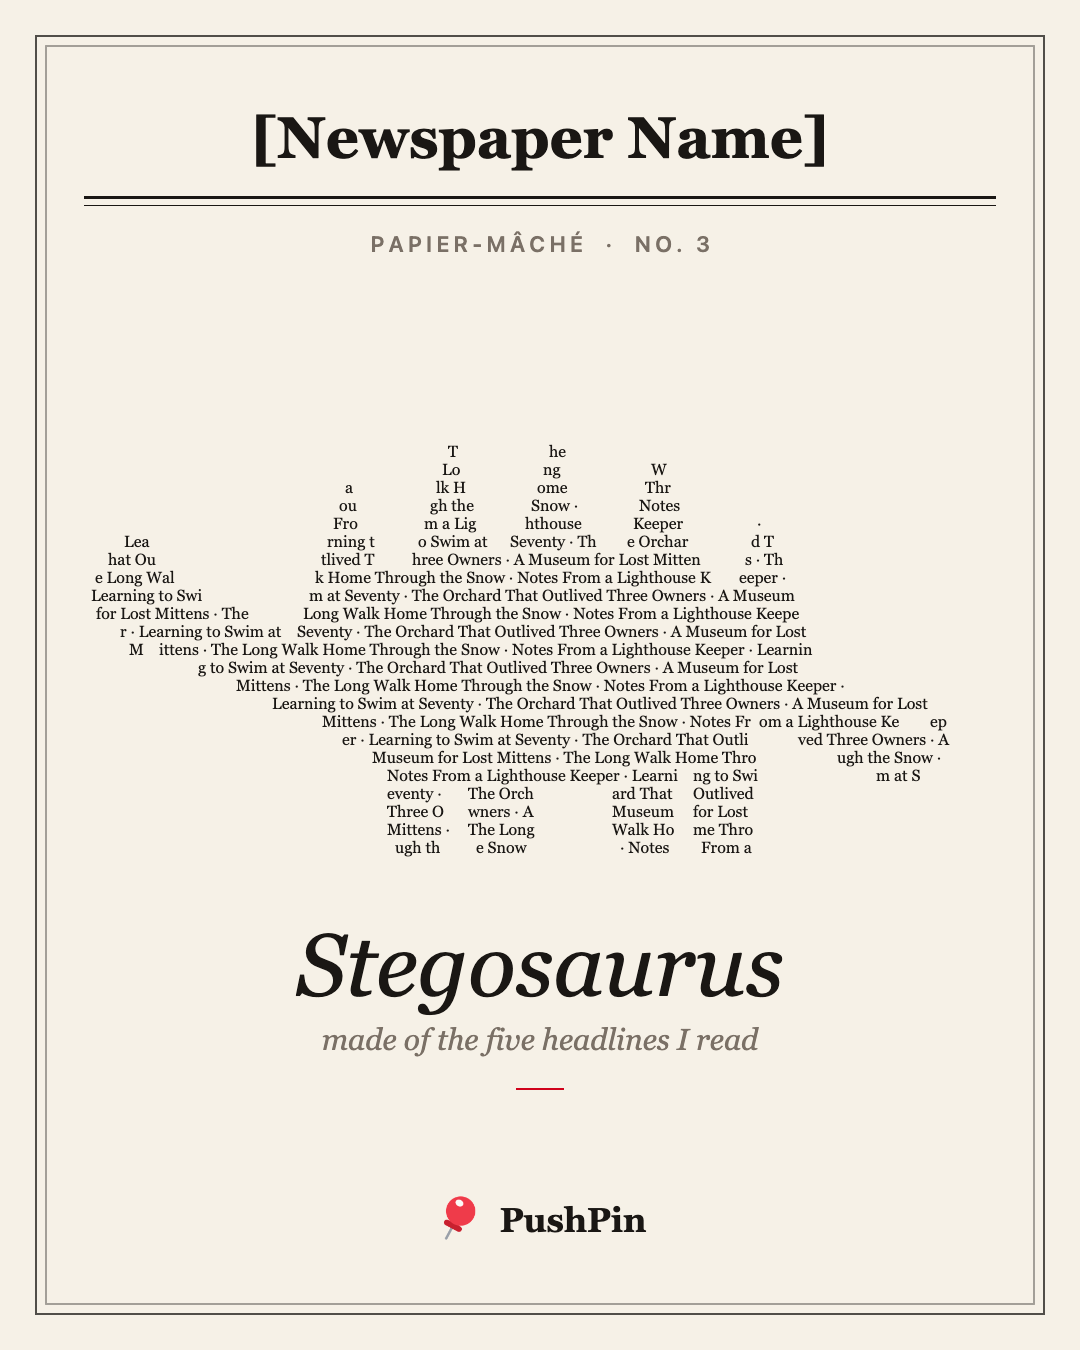
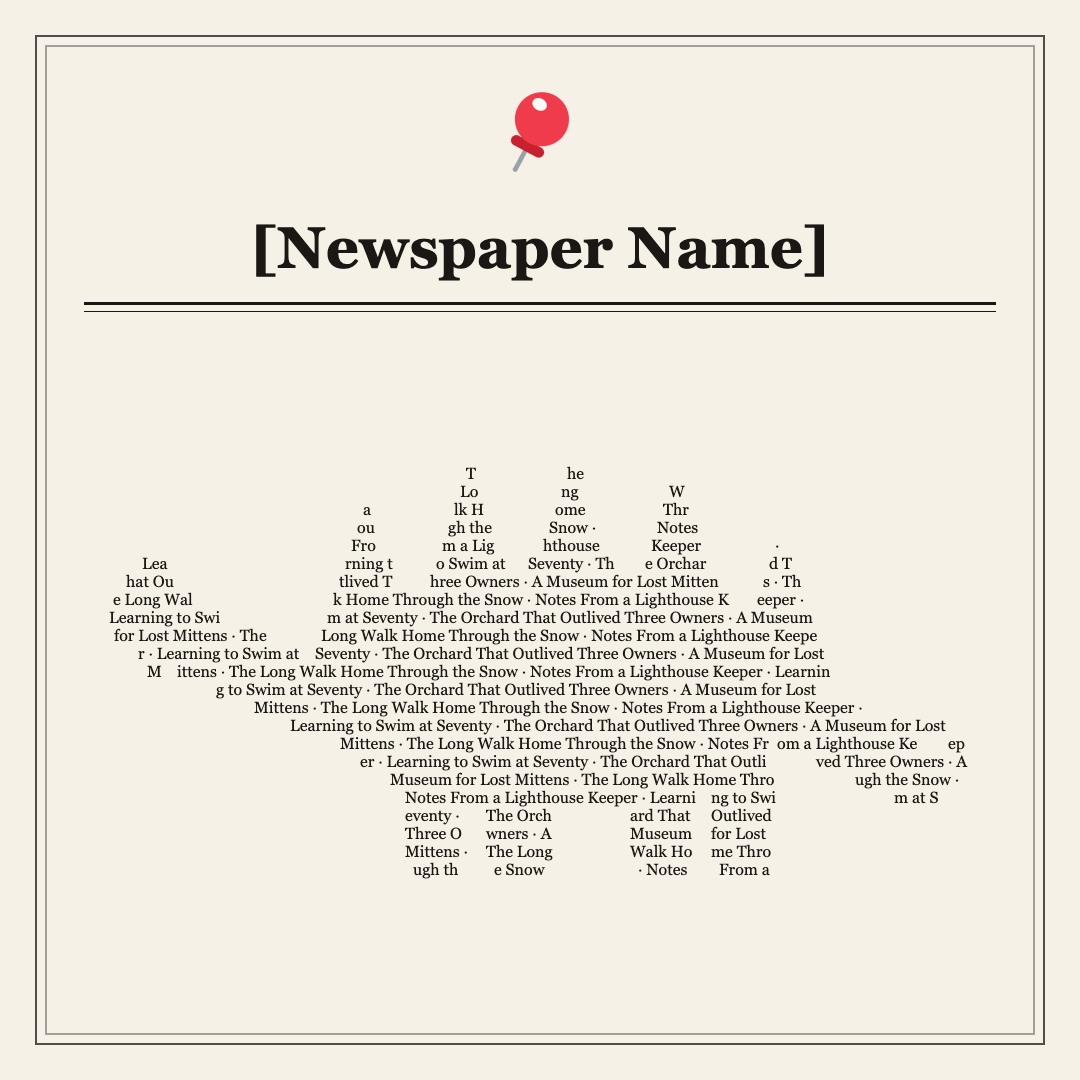
Share card: just the PushPin pin on top, the masthead and the dinosaur; no name, label or caption; square 1080x1080

diff --git a/src/pushpin/cards.py b/src/pushpin/cards.py
@@ -87,7 +87,7 @@ box-shadow:0 1px 2px rgba(0,0,0,.3);transition:transform .25s ease}
 -webkit-tap-highlight-color:transparent;transition:transform .2s ease}.papier .dino:active{transform:scale(.98)}
 .sharecard{border:0;padding:44px 16px 16px;border-radius:18px;background:var(--bg);color:var(--fg);width:min(92vw,420px);
 box-sizing:border-box;box-shadow:0 24px 80px rgba(0,0,0,.35)}.sharecard::backdrop{background:rgba(0,0,0,.55)}
-.sharecard img{display:block;width:100%;aspect-ratio:4/5;border-radius:6px;background:#f6f1e7;box-shadow:0 2px 10px rgba(0,0,0,.12)}
+.sharecard img{display:block;width:100%;aspect-ratio:1;border-radius:6px;background:#f6f1e7;box-shadow:0 2px 10px rgba(0,0,0,.12)}
 .sharecard .x{position:absolute;top:6px;right:8px;font:28px/1 -apple-system,system-ui,sans-serif;border:0;background:none;color:var(--muted);padding:4px 8px;cursor:pointer}
 .sharecard .row{margin-top:14px}.sharecard .go{background:var(--fg);color:var(--bg)}
 .sharecard .save{flex:1;text-align:center;font-weight:600;padding:12px;border-radius:10px;background:var(--btn);color:var(--fg);text-decoration:none}
@@ -610,50 +610,34 @@ function draw(canvas, words, built, flip, animate, kind) {
   requestAnimationFrame(frame);
 }
 // ---- share card ----
-// Tapping a dinosaur opens its card: a 1080 x 1350 image (4:5, what feeds crop to) on paper, with
-// the newspaper's masthead, the dinosaur made of its headlines, its name and the PushPin mark.
-const PAPER = '#f6f1e7', INK = '#1a1714', SOFT = '#7a7066', PENCIL = '#d8cfc0', RED = '#d0021b';
-const SERIF = 'Georgia, "Times New Roman", serif', SANS = '-apple-system, system-ui, "Helvetica Neue", sans-serif';
+// Tapping a dinosaur opens its card: a 1080 x 1080 square image on paper, with
+// the PushPin mark on top, the newspaper's masthead and the dinosaur made of its headlines.
+const PAPER = '#f6f1e7', INK = '#1a1714', PENCIL = '#d8cfc0', SERIF = 'Georgia, "Times New Roman", serif';
 const paper = data.dataset.paper || '';
 let logo = null;
 const pin = () => logo ??= new Promise(ok => {
   const im = new Image(); im.onload = () => ok(im); im.onerror = () => ok(null); im.src = '/icon.png';
 });
-function spaced(c, text, x, y, track) {  // centered small caps with letter spacing
-  const chars = [...text], wd = chars.reduce((s, ch) => s + c.measureText(ch).width, 0) + track * (chars.length - 1);
-  let cx = x - wd / 2;
-  c.textAlign = 'left';
-  for (const ch of chars) { c.fillText(ch, cx, y); cx += c.measureText(ch).width + track; }
-  c.textAlign = 'center';
-}
-async function card(k, words, built, kind) {
-  const W = 1080, H = 1350, M = 84, cv = document.createElement('canvas');
+async function card(words, built, kind) {
+  const W = 1080, H = 1080, M = 84, cv = document.createElement('canvas');
   cv.width = W; cv.height = H;
   const c = cv.getContext('2d');
   c.fillStyle = PAPER; c.fillRect(0, 0, W, H);
   c.strokeStyle = INK; c.lineWidth = 1.5; c.strokeRect(36, 36, W - 72, H - 72);   // a thin frame
   c.lineWidth = 0.75; c.strokeRect(46, 46, W - 92, H - 92);
+  const im = await pin(), size = 96;                                                 // the PushPin mark
+  if (im) c.drawImage(im, (W - size) / 2, 84, size, size);
   c.fillStyle = INK; c.textAlign = 'center'; c.textBaseline = 'alphabetic';
-  c.font = '700 58px ' + SERIF; c.fillText(paper, W / 2, 158);                      // the masthead
-  c.fillRect(M, 196, W - 2 * M, 3); c.fillRect(M, 205, W - 2 * M, 1);
-  c.fillStyle = SOFT; c.font = '600 22px ' + SANS;
-  spaced(c, 'PAPIER-MÂCHÉ  ·  NO. ' + (k + 1), W / 2, 252, 4.5);
-  const dw = W - 2 * M, dh = Math.round(dw * 0.64), dy = 300;                      // the dinosaur
-  const fs = Math.round(dw / 58), glyphs = layout(dw, dh, words, false, kind, fs);
+  c.font = '700 58px ' + SERIF; c.fillText(paper, W / 2, 268);                      // the masthead
+  c.fillRect(M, 302, W - 2 * M, 3); c.fillRect(M, 311, W - 2 * M, 1);
+  const dw = W - 2 * M, dh = Math.round(dw * 0.64), fs = Math.round(dw / 58);     // the dinosaur
+  const glyphs = layout(dw, dh, words, false, kind, fs);
   c.font = fs + 'px ' + SERIF; c.textAlign = 'left'; c.textBaseline = 'middle';
-  for (const g of glyphs) { c.fillStyle = isBuilt(g, dw, built, false) ? INK : PENCIL; c.fillText(g[0], M + g[1], dy + g[2]); }
-  c.textAlign = 'center'; c.textBaseline = 'alphabetic';
-  c.fillStyle = INK; c.font = 'italic 400 88px ' + SERIF; c.fillText(kind.name, W / 2, dy + dh + 112);
-  c.fillStyle = SOFT; c.font = 'italic 30px ' + SERIF;
-  const n = words.length, num = ['no', 'one', 'two', 'three', 'four', 'five'][n] || n;
-  c.fillText(built >= 1 ? 'made of the ' + num + ' headlines I read' : n + ' of ' + PER + ' headlines read, and counting',
-             W / 2, dy + dh + 166);
-  c.fillStyle = RED; c.fillRect(W / 2 - 24, dy + dh + 204, 48, 2);                  // a short red rule
-  const im = await pin(), size = 52, label = 'PushPin';                             // the mark
-  c.font = '700 34px ' + SERIF;
-  const lw = c.measureText(label).width, gap = 14, total = (im ? size + gap : 0) + lw, x0 = W / 2 - total / 2, fy = H - 118;
-  if (im) c.drawImage(im, x0, fy - size + 12, size, size);
-  c.fillStyle = INK; c.textAlign = 'left'; c.fillText(label, x0 + (im ? size + gap : 0), fy);
+  // centered by its words' box in the space below the rules (the drawing grid has room to spare)
+  let x0 = dw, x1 = 0, y0 = dh, y1 = 0;
+  for (const [ch, x, y] of glyphs) { x0 = Math.min(x0, x); x1 = Math.max(x1, x + c.measureText(ch).width); y0 = Math.min(y0, y); y1 = Math.max(y1, y); }
+  const dx = Math.round(W / 2 - (x0 + x1) / 2), dy = Math.round((311 + H - 46) / 2 - (y0 + y1) / 2);
+  for (const g of glyphs) { c.fillStyle = isBuilt(g, dw, built, false) ? INK : PENCIL; c.fillText(g[0], dx + g[1], dy + g[2]); }
   return cv;
 }
 let sheet = null;
@@ -670,7 +654,7 @@ function share(k, words, built, kind) {
   img.removeAttribute('src'); img.alt = 'A ' + kind.name + ' made of headlines, from PushPin';
   go.hidden = true; save.removeAttribute('href');
   sheet.showModal();
-  card(k, words, built, kind).then(cv => {
+  card(words, built, kind).then(cv => {
     const url = cv.toDataURL('image/png'), name = 'pushpin-' + kind.name.toLowerCase().replace(/[^a-z]+/g, '-') + '.png';
     img.src = url; save.href = url; save.download = name;
     // made before the tap, so Share runs inside it (iOS only shares from a tap)

diff --git a/docs/demo-screens.md b/docs/demo-screens.md
@@ -47,17 +47,16 @@ the sixth in progress: [demo-profile-full.png](screens/demo-profile-full.png).
 
 ## 4. Sharing a dinosaur
 
-Tapping a dinosaur opens its share card: a 1080 × 1350 image (4:5, the shape social feeds crop
-to) on cream paper. It has a newspaper masthead, the dinosaur made of its headlines, its name in
-italic, and the PushPin mark. **Share** opens the phone's share sheet with the image, and **Save
-image** downloads it. Browsers that can't share files only show Save image. A dinosaur that's
-still in progress is shared as it is, with the unread part in pencil ("3 of 5 headlines read, and
-counting").
+Tapping a dinosaur opens its share card: a 1080 × 1080 square on cream paper. The PushPin pin
+is at the top, then a newspaper masthead, then the dinosaur made of its headlines. **Share** opens
+the phone's share sheet with the image, and **Save image** downloads it. Browsers that can't share
+files only show Save image. A dinosaur that's still in progress is shared as it is, with the unread
+part in pencil.
 
 The masthead is a placeholder, `[Newspaper Name]`, set by `NEWSPAPER` in `src/pushpin/cards.py`.
 
-<img src="screens/share-sheet.png" width="300" alt="Share sheet on the demo profile: the Brontosaurus card with Share and Save image buttons">
-<img src="screens/share-card.png" width="300" alt="The shared image: [Newspaper Name] masthead, Papier-mâché No. 3, a Stegosaurus made of headlines, PushPin mark">
+<img src="screens/share-sheet.png" width="300" alt="Share sheet on the demo profile: a Brontosaurus card with Share and Save image buttons">
+<img src="screens/share-card.png" width="300" alt="The shared image: the PushPin pin, the [Newspaper Name] masthead, a Stegosaurus made of headlines">
 
 ## Before the first push: the welcome page
 
